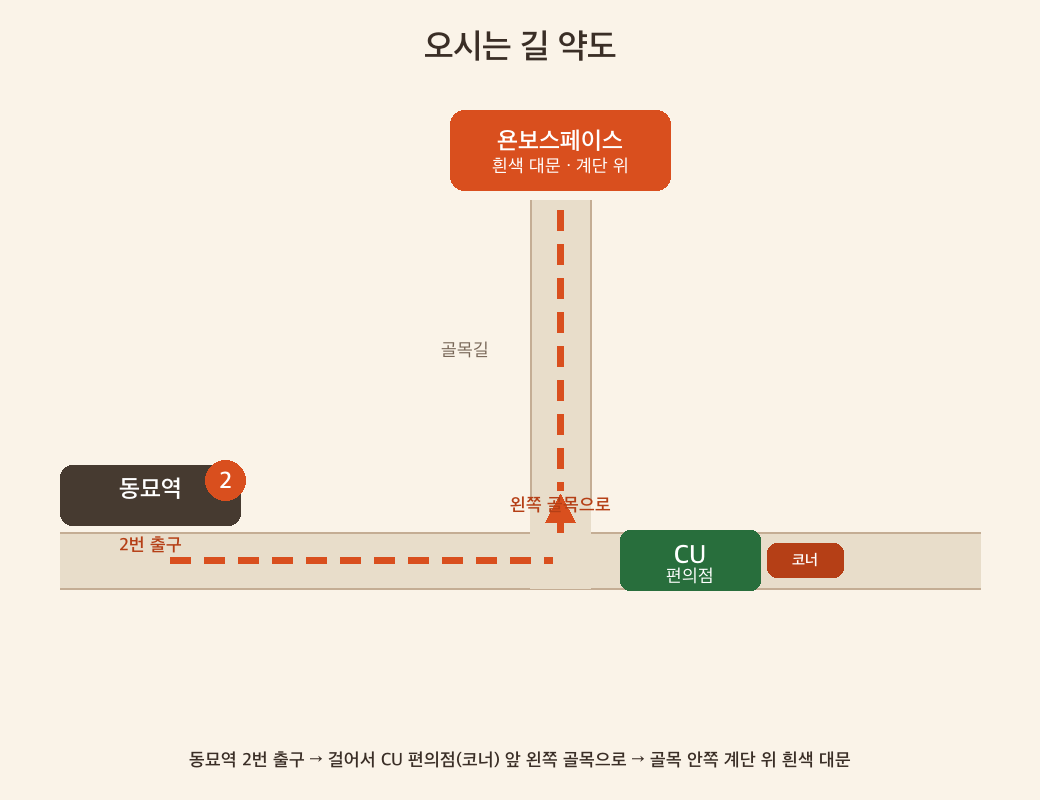
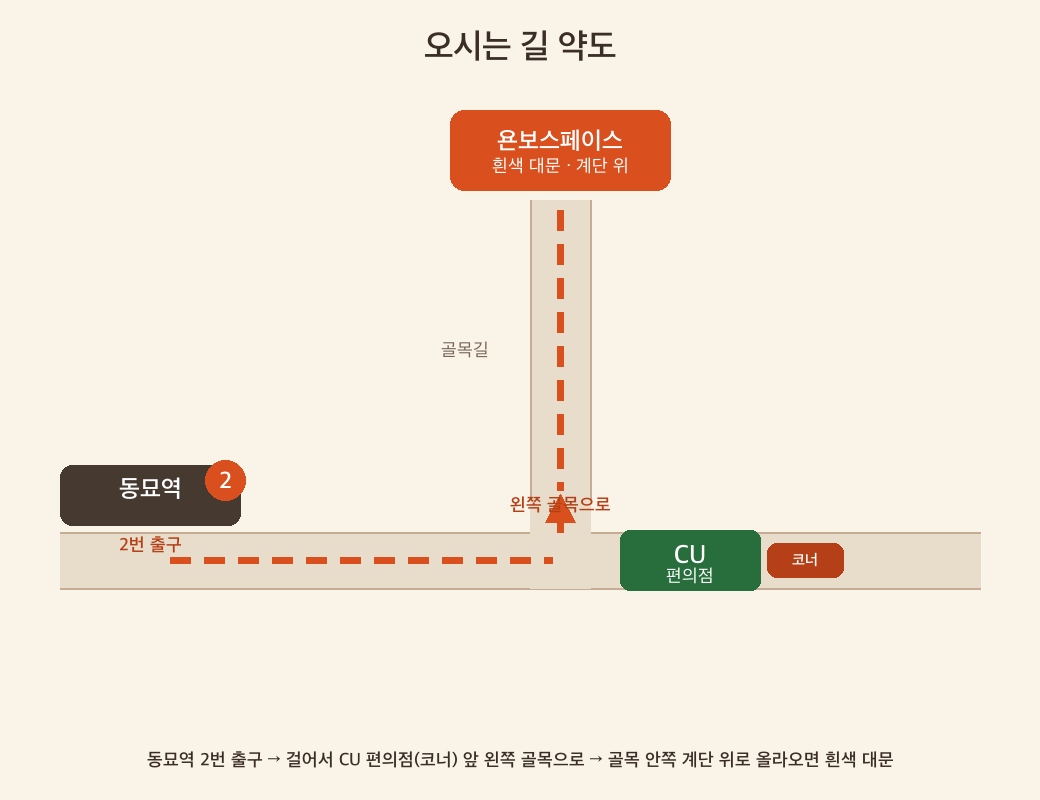
주소 문구 통일: '계단 올라와서' -> '계단 위로 올라와서' (약도 및 전체 페이지)

Changed region(s): [[0.1231, 0.9375, 0.8615, 0.9688]]

diff --git a/homepage-v2/index.html b/homepage-v2/index.html
@@ -315,7 +315,7 @@
             <ul class="visit-detail-list">
               <li>
                 <span class="label">주소</span>
-                <span>서울특별시 종로구 종로65길 41-2, 계단 올라와서 흰색 대문</span>
+                <span>서울특별시 종로구 종로65길 41-2, 계단 위로 올라와서 흰색 대문</span>
               </li>
               <li>
                 <span class="label">영업시간</span>
@@ -371,7 +371,7 @@
         </div>
         <div class="footer-col">
           <span>Visit</span>
-          <p>서울특별시 종로구 종로65길 41-2, 계단 올라와서 흰색 대문</p>
+          <p>서울특별시 종로구 종로65길 41-2, 계단 위로 올라와서 흰색 대문</p>
           <p>12:00 – 18:00 · 월·화 휴무</p>
           <a href="mailto:hig522000@gmail.com">hig522000@gmail.com</a>
           <p>02-763-5426</p>

diff --git a/homepage-v2/artist.html b/homepage-v2/artist.html
@@ -142,7 +142,7 @@
         </div>
         <div class="footer-col">
           <span>Visit</span>
-          <p>서울특별시 종로구 종로65길 41-2, 계단 올라와서 흰색 대문</p>
+          <p>서울특별시 종로구 종로65길 41-2, 계단 위로 올라와서 흰색 대문</p>
           <p>12:00 – 18:00 · 월·화 휴무</p>
           <a href="mailto:hig522000@gmail.com">hig522000@gmail.com</a>
           <p>02-763-5426</p>

diff --git a/homepage-v2/programs/gallery-date.html b/homepage-v2/programs/gallery-date.html
@@ -122,7 +122,7 @@
         </div>
         <div class="footer-col">
           <span>Visit</span>
-          <p>서울특별시 종로구 종로65길 41-2, 계단 올라와서 흰색 대문</p>
+          <p>서울특별시 종로구 종로65길 41-2, 계단 위로 올라와서 흰색 대문</p>
           <p>12:00 – 18:00 · 월·화 휴무</p>
           <a href="mailto:hig522000@gmail.com">hig522000@gmail.com</a>
           <p>02-763-5426</p>

diff --git a/homepage-v2/programs/jongno-dawoom.html b/homepage-v2/programs/jongno-dawoom.html
@@ -118,7 +118,7 @@
         </div>
         <div class="footer-col">
           <span>Visit</span>
-          <p>서울특별시 종로구 종로65길 41-2, 계단 올라와서 흰색 대문</p>
+          <p>서울특별시 종로구 종로65길 41-2, 계단 위로 올라와서 흰색 대문</p>
           <p>12:00 – 18:00 · 월·화 휴무</p>
           <a href="mailto:hig522000@gmail.com">hig522000@gmail.com</a>
           <p>02-763-5426</p>

diff --git a/homepage-v2/programs/life-review-drawing.html b/homepage-v2/programs/life-review-drawing.html
@@ -114,7 +114,7 @@
         </div>
         <div class="footer-col">
           <span>Visit</span>
-          <p>서울특별시 종로구 종로65길 41-2, 계단 올라와서 흰색 대문</p>
+          <p>서울특별시 종로구 종로65길 41-2, 계단 위로 올라와서 흰색 대문</p>
           <p>12:00 – 18:00 · 월·화 휴무</p>
           <a href="mailto:hig522000@gmail.com">hig522000@gmail.com</a>
           <p>02-763-5426</p>

diff --git a/homepage-v2/articles.html b/homepage-v2/articles.html
@@ -90,7 +90,7 @@
         </div>
         <div class="footer-col">
           <span>Visit</span>
-          <p>서울특별시 종로구 종로65길 41-2, 계단 올라와서 흰색 대문</p>
+          <p>서울특별시 종로구 종로65길 41-2, 계단 위로 올라와서 흰색 대문</p>
           <p>12:00 – 18:00 · 월·화 휴무</p>
           <a href="mailto:hig522000@gmail.com">hig522000@gmail.com</a>
           <p>02-763-5426</p>

diff --git a/homepage-v2/products/mulgyeol-yarn-holder.html b/homepage-v2/products/mulgyeol-yarn-holder.html
@@ -98,7 +98,7 @@
         </div>
         <div class="footer-col">
           <span>Visit</span>
-          <p>서울특별시 종로구 종로65길 41-2, 계단 올라와서 흰색 대문</p>
+          <p>서울특별시 종로구 종로65길 41-2, 계단 위로 올라와서 흰색 대문</p>
           <p>12:00 – 18:00 · 월·화 휴무</p>
           <a href="mailto:hig522000@gmail.com">hig522000@gmail.com</a>
           <p>02-763-5426</p>

diff --git a/homepage-v2/products/vegetable-leather-note.html b/homepage-v2/products/vegetable-leather-note.html
@@ -98,7 +98,7 @@
         </div>
         <div class="footer-col">
           <span>Visit</span>
-          <p>서울특별시 종로구 종로65길 41-2, 계단 올라와서 흰색 대문</p>
+          <p>서울특별시 종로구 종로65길 41-2, 계단 위로 올라와서 흰색 대문</p>
           <p>12:00 – 18:00 · 월·화 휴무</p>
           <a href="mailto:hig522000@gmail.com">hig522000@gmail.com</a>
           <p>02-763-5426</p>

diff --git a/homepage-v2/products/venice-sunset-bookmark.html b/homepage-v2/products/venice-sunset-bookmark.html
@@ -98,7 +98,7 @@
         </div>
         <div class="footer-col">
           <span>Visit</span>
-          <p>서울특별시 종로구 종로65길 41-2, 계단 올라와서 흰색 대문</p>
+          <p>서울특별시 종로구 종로65길 41-2, 계단 위로 올라와서 흰색 대문</p>
           <p>12:00 – 18:00 · 월·화 휴무</p>
           <a href="mailto:hig522000@gmail.com">hig522000@gmail.com</a>
           <p>02-763-5426</p>
